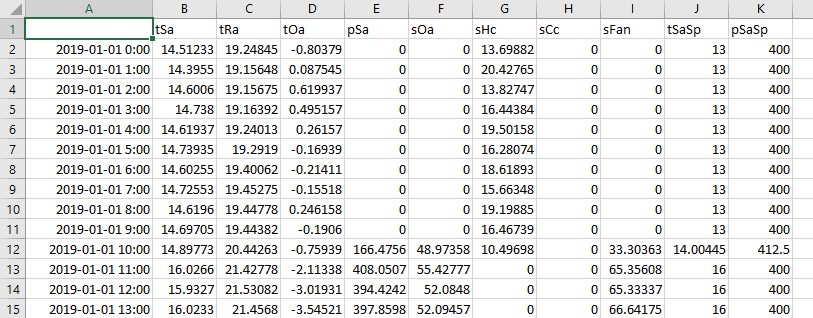
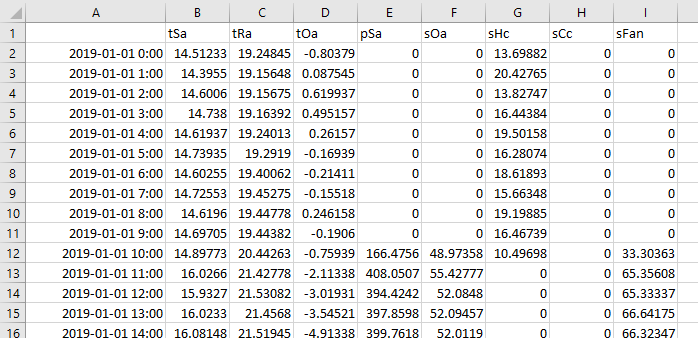
Remove tSaSp and pSaSp from AHu anomaly function

diff --git a/templates/functions_ahuAnomaly_inputs.html b/templates/functions_ahuAnomaly_inputs.html
@@ -188,7 +188,7 @@
 
     <p class="h3 fw-normal">AHU-level HVAC Control Network Trends</p>
     <p class="fs-6">The AHU anomaly function requires AHU-level HVAC control network trend data. These data are a record of the various actuator and sensor measurements pertaining to the air handling units (AHUs) and can typically be extracted 
-      from a building automation system (BAS). For this analysis, ten unique trend data are required for each AHU; they are as listed with units and range in Table 1 and must be formatted as in Figure 1.</p>
+      from a building automation system (BAS). For this analysis, eight unique trend data are required for each AHU; they are as listed with units and range in Table 1 and must be formatted as in Figure 1.</p>
     <div class="card">
       <div class="card-body">
         <table class="table table-striped table-hover">
@@ -248,18 +248,6 @@
               <td>sFan</td>
               <td>%</td>
               <td>0(closed) - 100(open)</td>
-            </tr>
-            <tr>
-              <th scope="row">Supply air temperature setpoint</th>
-              <td>tSaSp</td>
-              <td><sup>o</sup>C</td>
-              <td>-</td>
-            </tr>
-            <tr>
-              <th scope="row">Supply air pressure setpoint</th>
-              <td>pSaSp</td>
-              <td>Pa</td>
-              <td>-</td>
             </tr>
           </tbody>
         </table>

diff --git a/ahuAnomaly.py b/ahuAnomaly.py
@@ -311,7 +311,6 @@ def ahuAnomaly (all_ahu_data,sRad,tIn,output_path):
         tOa = dataWrkHrs[dataWrkHrs.columns[2]][htgEconMdInd] #Note: tOa is redefined here.
         sOa = dataWrkHrs[dataWrkHrs.columns[4]][htgEconMdInd] 
         sHc = dataWrkHrs[dataWrkHrs.columns[5]][htgEconMdInd] 
-        #tSaSp = dataWrkHrs[dataWrkHrs.columns[8]][htgEconMdInd] 
 
         #Optimize parameters for genetic algorithms for ahuMdlMode1_2
         varbound = np.array([[0.0,1.5],[-1,1],[0,0.5]]) # ([lower_bound,upper_bound])
@@ -334,7 +333,6 @@ def ahuAnomaly (all_ahu_data,sRad,tIn,output_path):
         tOa = dataWrkHrs[dataWrkHrs.columns[2]][clgMdInd] #Note: tOa is redefined here.
         sOa = dataWrkHrs[dataWrkHrs.columns[4]][clgMdInd] 
         sCc = dataWrkHrs[dataWrkHrs.columns[6]][clgMdInd] 
-        #tSaSp = dataWrkHrs[dataWrkHrs.columns[8]][clgMdInd] 
 
         #Optimize parameters for genetic algorithms for ahuMdlMode4
         varbound = np.array([[-0.5,0],[-1,1]]) # ([lower_bound,upper_bound])
@@ -469,7 +467,7 @@ def execute_function(uploaded_ahu_files, uploaded_zone_files, output_path):
     for f in uploaded_ahu_files:
         print('Reading ' + str(f.filename) + '...')
         data = pd.read_csv(f) #Specify the sample data for ahu files
-        data = data.rename(columns={data.columns[1]:'tSa',data.columns[2]:'tRa',data.columns[3]:'tOa',data.columns[4]:'pSa',data.columns[5]:'sOa',data.columns[6]:'sHc',data.columns[7]:'sCc',data.columns[8]:'sFan',data.columns[9]:'tSaSp',data.columns[10]:'pSaSp'})
+        data = data.rename(columns={data.columns[1]:'tSa',data.columns[2]:'tRa',data.columns[3]:'tOa',data.columns[4]:'pSa',data.columns[5]:'sOa',data.columns[6]:'sHc',data.columns[7]:'sCc',data.columns[8]:'sFan'})
         dfs.append(data)
         file_names.append(f.filename)
     ahu = pd.concat(dfs,keys=file_names).reset_index(level=1, drop=True)
